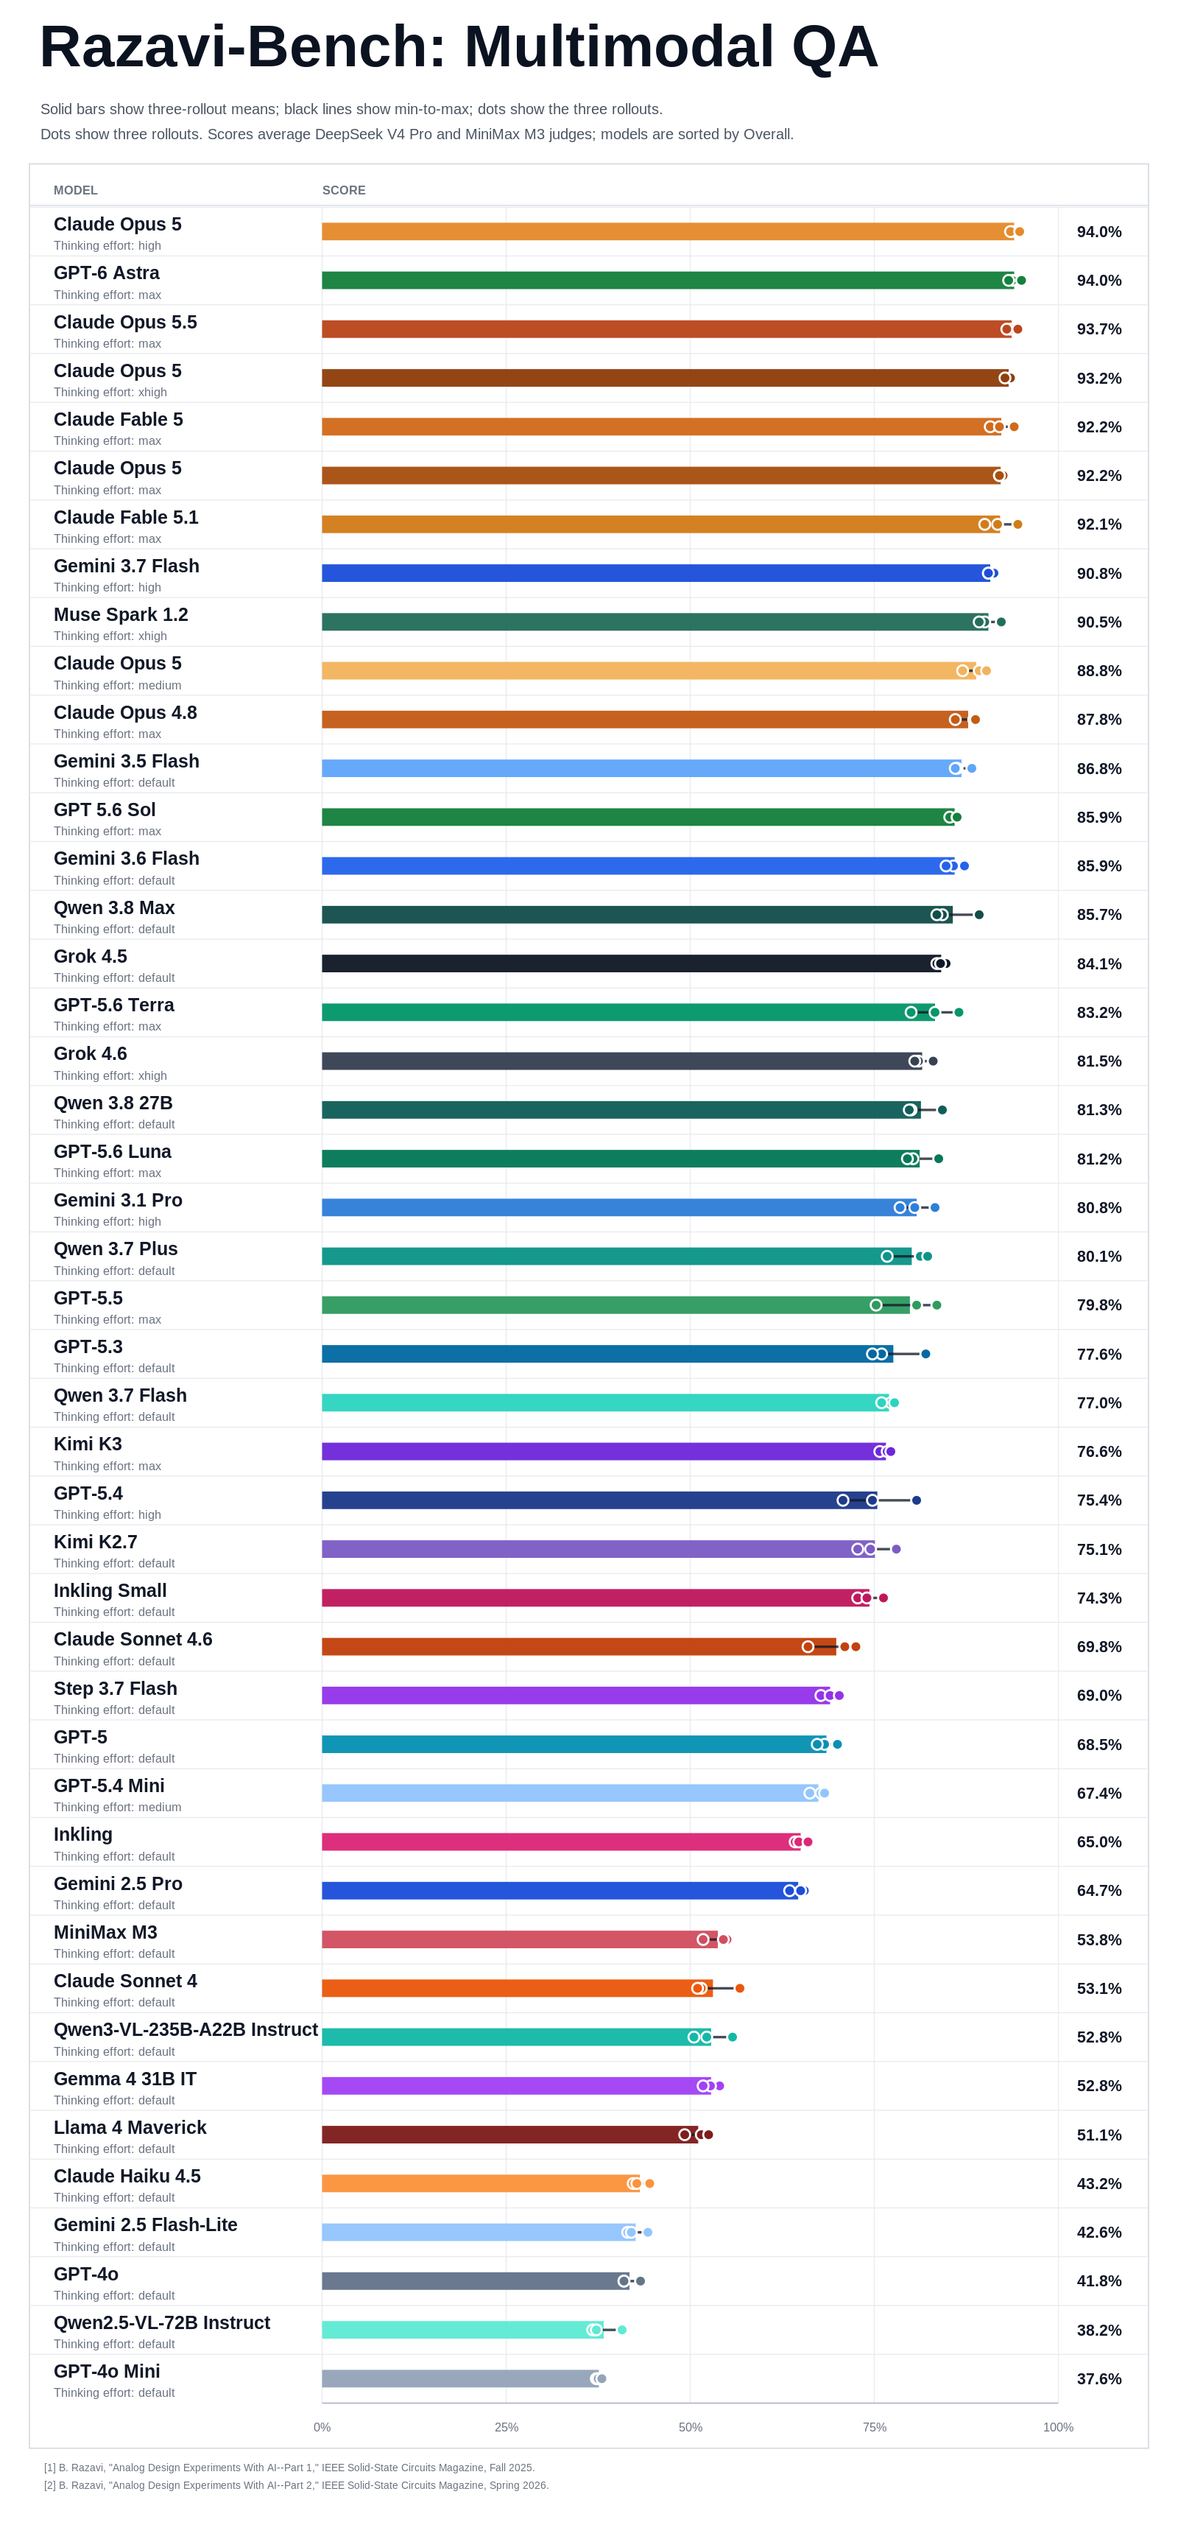
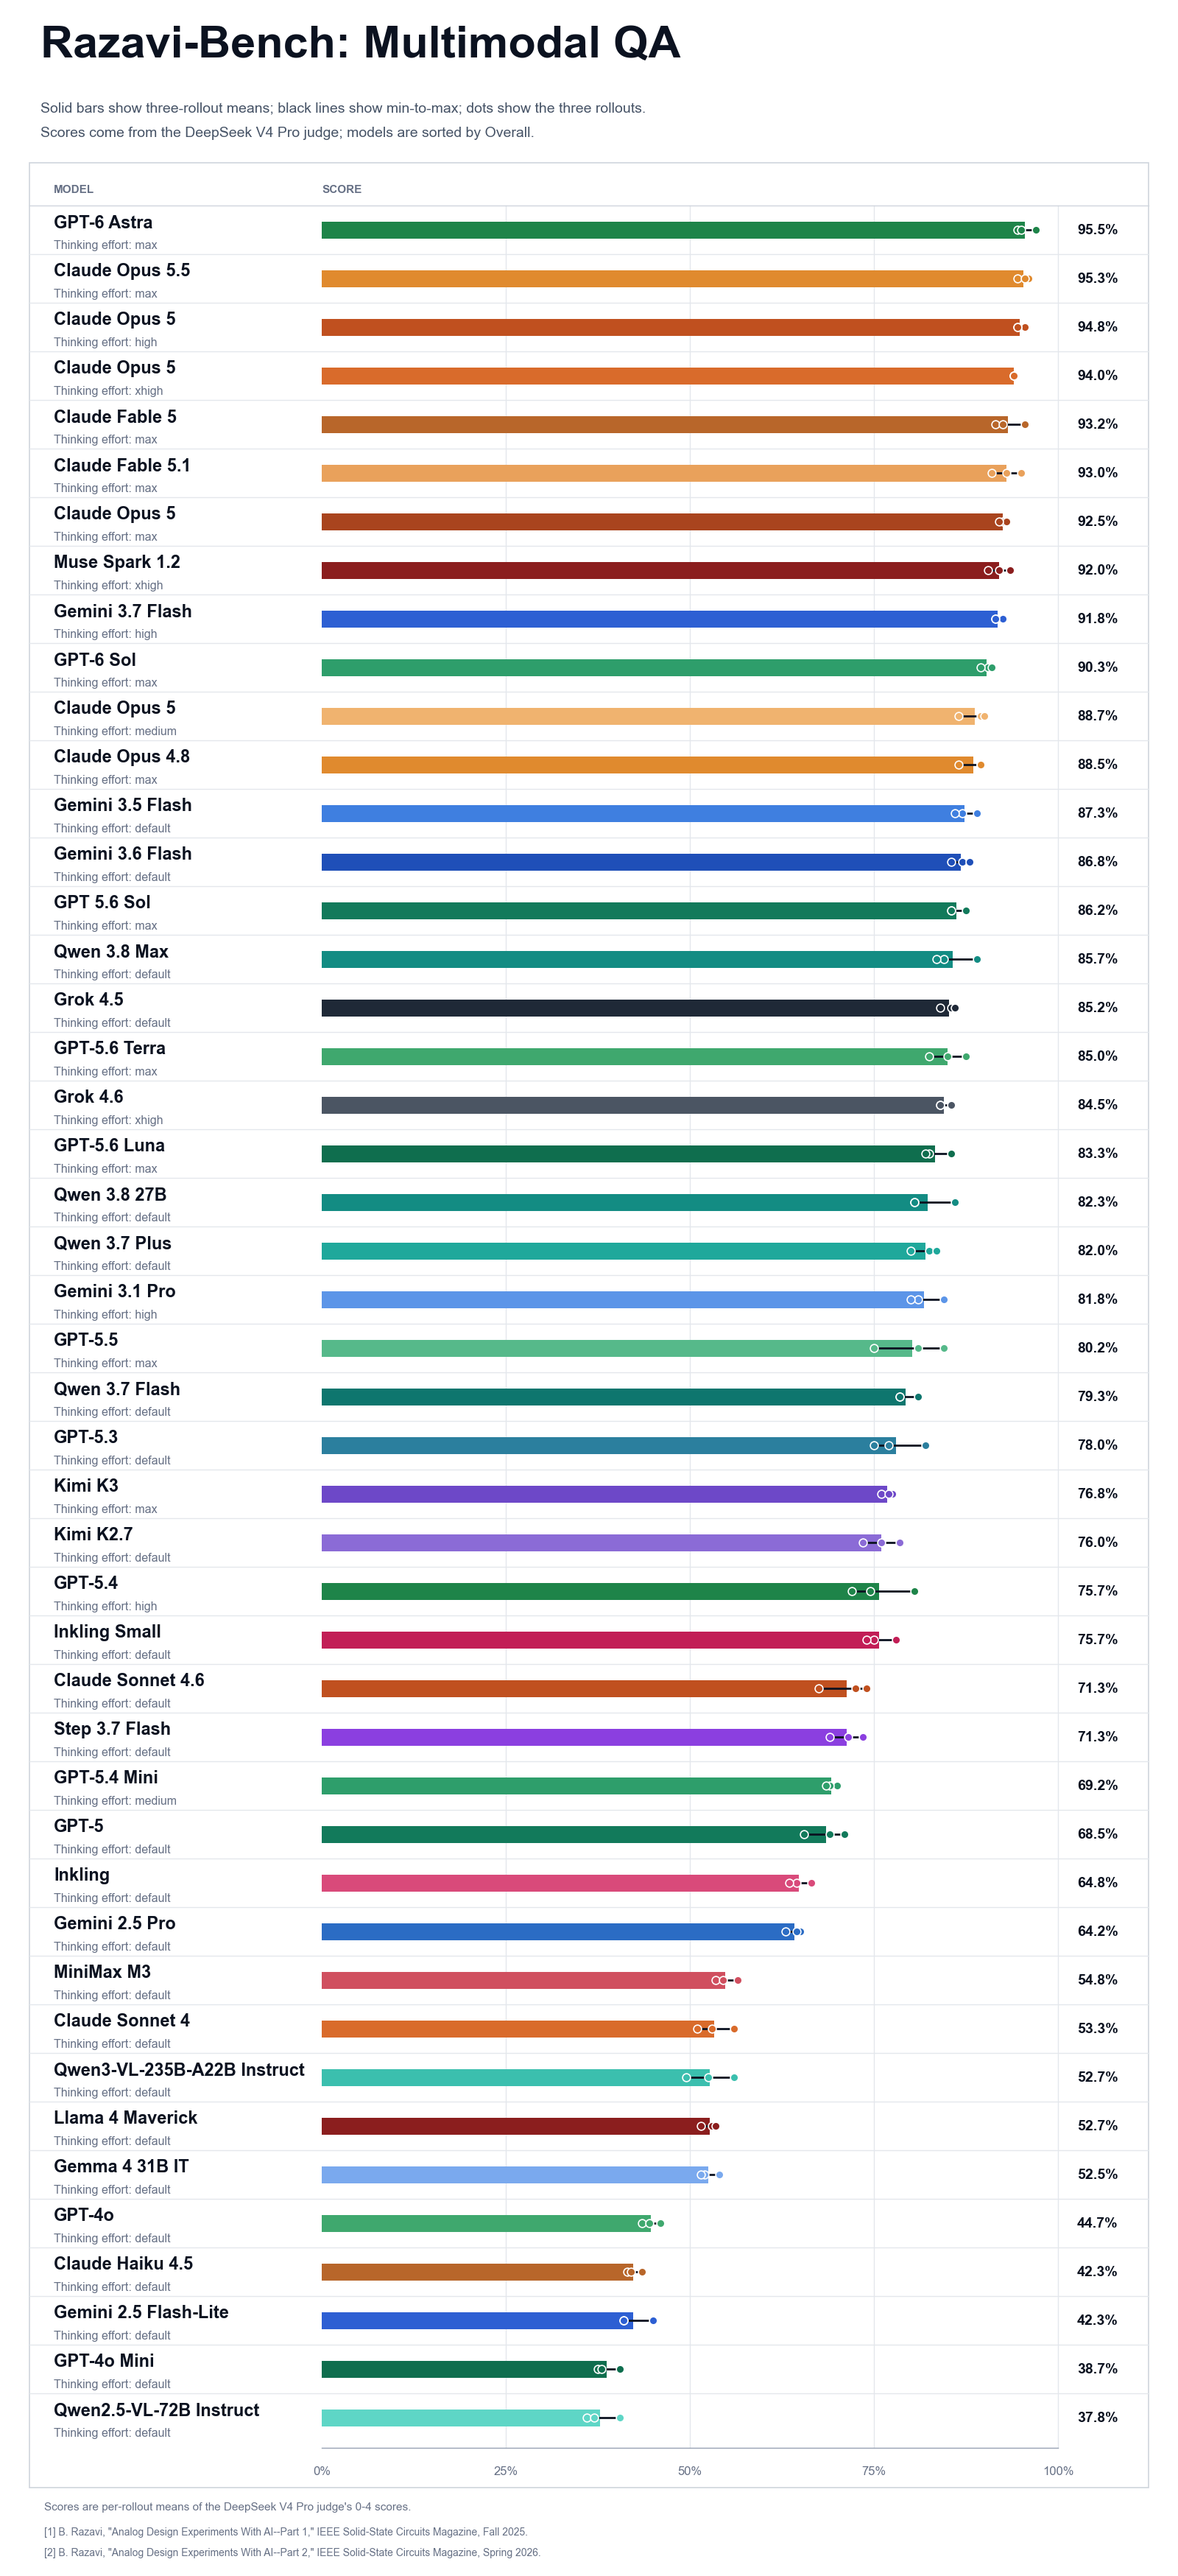
Regenerate the overall rollout chart from DeepSeek scores
plot_rollout_scores.py now also writes the Overall-only figure, so it no
longer goes stale when the all-metrics figure is refreshed.

Changed region(s): [[0.0312, 0.0, 0.875, 0.9988], [0.9062, 0.0624, 0.9688, 0.8116], [0.9062, 0.8428, 0.9688, 0.9676]]

diff --git a/tools/plot_rollout_scores.py b/tools/plot_rollout_scores.py
@@ -1,11 +1,13 @@
 #!/usr/bin/env python3
 """Plot every model's Overall / Part 1 / Part 2 active score with its rollouts.
 
-Reads docs/data/direct_qa/index.json and writes the README figure
-docs/assets/direct_qa_rollout_mean_all_metrics.png. Each model gets three bars:
-Overall (solid), Part 1 (lighter) and Part 2 (hatched), with one dot per
-rollout and a black line across the rollout range. Models follow index order,
-which is sorted by the overall active score.
+Reads docs/data/direct_qa/index.json and writes two figures:
+docs/assets/direct_qa_rollout_mean_all_metrics.png (the README figure), where
+each model gets three bars, Overall (solid), Part 1 (lighter) and Part 2
+(hatched), and docs/assets/direct_qa_rollout_mean_overall.png, with only the
+Overall bar. Every bar has one dot per rollout and a black line across the
+rollout range. Models follow index order, which is sorted by the overall
+active score.
 """
 
 from __future__ import annotations
@@ -24,6 +26,7 @@ from matplotlib.patches import Rectangle
 ROOT = Path(__file__).resolve().parents[1]
 DEFAULT_INDEX = ROOT / "docs/data/direct_qa/index.json"
 DEFAULT_OUTPUT = ROOT / "docs/assets/direct_qa_rollout_mean_all_metrics.png"
+DEFAULT_OVERALL_OUTPUT = ROOT / "docs/assets/direct_qa_rollout_mean_overall.png"
 
 # Shades per provider; models from the same provider take the next shade in rank order.
 PROVIDER_SHADES = {
@@ -43,10 +46,9 @@ PROVIDER_SHADES = {
 FALLBACK = "#64748B"
 
 W = 1600
-BAR_X0, BAR_X1 = 500, 1437
-BLOCK_H = 138
-PANEL_TOP = 247
+BAR_X1 = 1437
 HEADER_H = 58
+PART_LABELS = {"overall": "Overall", "part1": "Part 1", "part2": "Part 2"}
 INK, MUTED, FAINT, LINE = "#0B1220", "#475467", "#667085", "#E4E7EC"
 
 
@@ -60,14 +62,17 @@ def rollout_values(summary: dict, part: str) -> list[float]:
     return [rows[k]["score_percent"] for k in sorted(rows, key=int)]
 
 
-def plot(index: dict, output: Path) -> None:
+def plot(index: dict, output: Path, parts: tuple[str, ...]) -> None:
     plt.rcParams["font.family"] = "sans-serif"
     plt.rcParams["font.sans-serif"] = ["Arial", "Helvetica", "Liberation Sans", "DejaVu Sans"]
     models = index["models"]
     judge = index["benchmark"]["active_score_policy"]
     judge_name = {"deepseek_v4_pro": "DeepSeek V4 Pro", "minimax_m3": "MiniMax M3"}.get(judge, judge)
-    body_top = PANEL_TOP + HEADER_H
-    body_bottom = body_top + BLOCK_H * len(models)
+    # Three labelled bars per model, or one unlabelled Overall bar per model.
+    stacked = len(parts) > 1
+    bar_x0, block_h, panel_top = (500, 138, 247) if stacked else (437, 66, 222)
+    body_top = panel_top + HEADER_H
+    body_bottom = body_top + block_h * len(models)
     panel_bottom = body_bottom + 62
     height = panel_bottom + 120
 
@@ -76,25 +81,29 @@ def plot(index: dict, output: Path) -> None:
     ax.set_xlim(0, W)
     ax.set_ylim(height, 0)
     ax.axis("off")
-    x_of = lambda pct: BAR_X0 + (BAR_X1 - BAR_X0) * max(0.0, min(pct, 100.0)) / 100
+    x_of = lambda pct: bar_x0 + (BAR_X1 - bar_x0) * max(0.0, min(pct, 100.0)) / 100
 
     ax.text(55, 62, "Razavi-Bench: Multimodal QA", fontsize=44, fontweight="bold", color=INK, va="center")
-    ax.text(55, 125, "Overall / Part 1 / Part 2", fontsize=21, fontweight="bold", color=INK, va="center")
-    ax.text(55, 172, "Overall is solid, Part 1 is lighter, and Part 2 is hatched. Black lines show rollout min-to-max.",
-            fontsize=14, color=MUTED, va="center")
-    ax.text(55, 206, f"Dots show three rollouts. Scores come from the {judge_name} judge; models are sorted by Overall.",
-            fontsize=14, color=MUTED, va="center")
+    if stacked:
+        ax.text(55, 125, "Overall / Part 1 / Part 2", fontsize=21, fontweight="bold", color=INK, va="center")
+        lines = ("Overall is solid, Part 1 is lighter, and Part 2 is hatched. Black lines show rollout min-to-max.",
+                 f"Dots show three rollouts. Scores come from the {judge_name} judge; models are sorted by Overall.")
+    else:
+        lines = ("Solid bars show three-rollout means; black lines show min-to-max; dots show the three rollouts.",
+                 f"Scores come from the {judge_name} judge; models are sorted by Overall.")
+    for j, line in enumerate(lines):
+        ax.text(55, panel_top - 75 + j * 34, line, fontsize=14, color=MUTED, va="center")
 
-    ax.add_patch(Rectangle((40, PANEL_TOP), 1520, panel_bottom - PANEL_TOP, fill=False, edgecolor="#D0D5DD", lw=1.2))
-    ax.text(73, PANEL_TOP + 36, "MODEL", fontsize=11, fontweight="bold", color=FAINT, va="center")
-    ax.text(BAR_X0, PANEL_TOP + 36, "SCORE", fontsize=11, fontweight="bold", color=FAINT, va="center")
+    ax.add_patch(Rectangle((40, panel_top), 1520, panel_bottom - panel_top, fill=False, edgecolor="#D0D5DD", lw=1.2))
+    ax.text(73, panel_top + 36, "MODEL", fontsize=11, fontweight="bold", color=FAINT, va="center")
+    ax.text(bar_x0, panel_top + 36, "SCORE", fontsize=11, fontweight="bold", color=FAINT, va="center")
     ax.plot([40, 1560], [body_top, body_top], color="#D0D5DD", lw=1)
     for pct in (25, 50, 75, 100):
         ax.plot([x_of(pct)] * 2, [body_top, body_bottom + 8], color=LINE, lw=1, zorder=0)
 
     used: dict[str, int] = {}
     for i, model in enumerate(models):
-        top = body_top + i * BLOCK_H
+        top = body_top + i * block_h
         if i:
             ax.plot([40, 1560], [top, top], color=LINE, lw=1)
         provider = (model.get("provider") or "").lower()
@@ -103,28 +112,31 @@ def plot(index: dict, output: Path) -> None:
         used[provider] = used.get(provider, 0) + 1
 
         effort = model.get("thinking_effort") or "default"
-        ax.text(73, top + 58, model["display_name"], fontsize=17, fontweight="bold", color=INK, va="center")
-        ax.text(73, top + 88, f"Thinking effort: {effort}", fontsize=11.5, color=FAINT, va="center")
+        name_y = top + 58 if stacked else top + 23
+        ax.text(73, name_y, model["display_name"], fontsize=17, fontweight="bold", color=INK, va="center")
+        ax.text(73, name_y + 30, f"Thinking effort: {effort}", fontsize=11.5, color=FAINT, va="center")
 
         summary = model["summary"]
-        for row, (part, label) in enumerate((("overall", "Overall"), ("part1", "Part 1"), ("part2", "Part 2"))):
-            y = top + 38 + row * 32
+        for row, part in enumerate(parts):
+            y = top + 38 + row * 32 if stacked else top + 33
+            half = 10 if stacked else 11.5
             mean = summary["scores"][part]["active"]["score_percent"]
-            ax.text(BAR_X0 - 24, y, label, fontsize=12.5, color=MUTED, ha="right", va="center")
-            width = x_of(mean) - BAR_X0
+            if stacked:
+                ax.text(bar_x0 - 24, y, PART_LABELS[part], fontsize=12.5, color=MUTED, ha="right", va="center")
+            width = x_of(mean) - bar_x0
             if part == "overall":
-                ax.add_patch(Rectangle((BAR_X0, y - 10), width, 20, facecolor=color, edgecolor="none"))
+                ax.add_patch(Rectangle((bar_x0, y - half), width, 2 * half, facecolor=color, edgecolor="none"))
             elif part == "part1":
-                ax.add_patch(Rectangle((BAR_X0, y - 10), width, 20, facecolor=lighten(color, 0.45), edgecolor="none"))
+                ax.add_patch(Rectangle((bar_x0, y - half), width, 2 * half, facecolor=lighten(color, 0.45), edgecolor="none"))
             else:
-                ax.add_patch(Rectangle((BAR_X0, y - 10), width, 20, facecolor="white", edgecolor=color, lw=1.2, hatch="////"))
+                ax.add_patch(Rectangle((bar_x0, y - half), width, 2 * half, facecolor="white", edgecolor=color, lw=1.2, hatch="////"))
             rolls = rollout_values(summary, part)
             if len(rolls) > 1:
                 ax.plot([x_of(min(rolls)), x_of(max(rolls))], [y, y], color=INK, lw=2, zorder=3, solid_capstyle="butt")
             ax.scatter([x_of(v) for v in rolls], [y] * len(rolls), s=60, color=color, edgecolors="white", linewidths=1.2, zorder=4)
             ax.text(1463, y, f"{mean:.1f}%", fontsize=14, fontweight="bold", color=INK, va="center")
 
-    ax.plot([BAR_X0, BAR_X1], [body_bottom + 8, body_bottom + 8], color="#98A2B3", lw=1)
+    ax.plot([bar_x0, BAR_X1], [body_bottom + 8, body_bottom + 8], color="#98A2B3", lw=1)
     for pct in (0, 25, 50, 75, 100):
         ax.text(x_of(pct), body_bottom + 40, f"{pct}%", fontsize=12, color=FAINT, ha="center", va="center")
 
@@ -144,10 +156,13 @@ def plot(index: dict, output: Path) -> None:
 def main() -> None:
     parser = argparse.ArgumentParser(description=__doc__.splitlines()[0])
     parser.add_argument("--index", type=Path, default=DEFAULT_INDEX)
-    parser.add_argument("--output", type=Path, default=DEFAULT_OUTPUT)
+    parser.add_argument("--output", type=Path, default=DEFAULT_OUTPUT, help="Overall / Part 1 / Part 2 figure")
+    parser.add_argument("--overall-output", type=Path, default=DEFAULT_OVERALL_OUTPUT, help="Overall-only figure")
     args = parser.parse_args()
-    plot(json.loads(args.index.read_text(encoding="utf-8")), args.output)
-    print(f"Wrote {args.output.relative_to(ROOT)}")
+    index = json.loads(args.index.read_text(encoding="utf-8"))
+    for output, parts in ((args.output, tuple(PART_LABELS)), (args.overall_output, ("overall",))):
+        plot(index, output, parts)
+        print(f"Wrote {output.resolve().relative_to(ROOT)}")
 
 
 if __name__ == "__main__":

diff --git a/tools/README.md b/tools/README.md
@@ -111,9 +111,10 @@ node tools/aggregate_questions.js
 
 ## `plot_rollout_scores.py`
 
-`plot_rollout_scores.py` draws the README figure
-`docs/assets/direct_qa_rollout_mean_all_metrics.png` from `index.json`: Overall,
-Part 1 and Part 2 per model, with one dot per rollout.
+`plot_rollout_scores.py` draws two figures from `index.json`, each with one dot
+per rollout: the README figure `docs/assets/direct_qa_rollout_mean_all_metrics.png`
+(Overall, Part 1 and Part 2 per model) and
+`docs/assets/direct_qa_rollout_mean_overall.png` (Overall only).
 
 ## `build_task_thumbnails.py`
 
